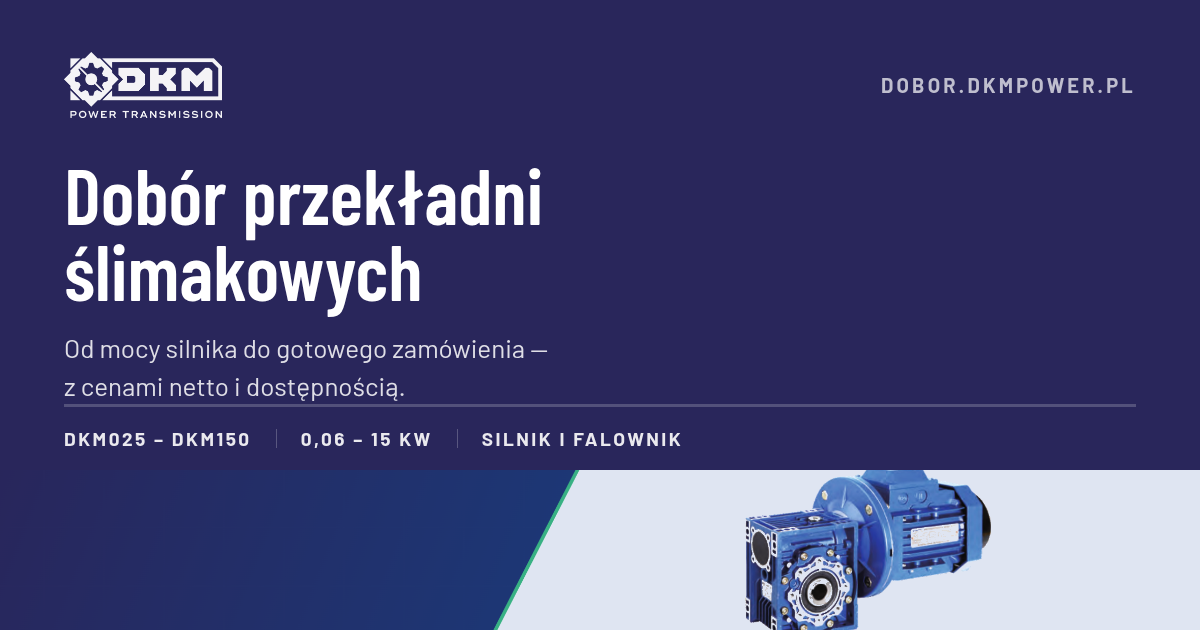
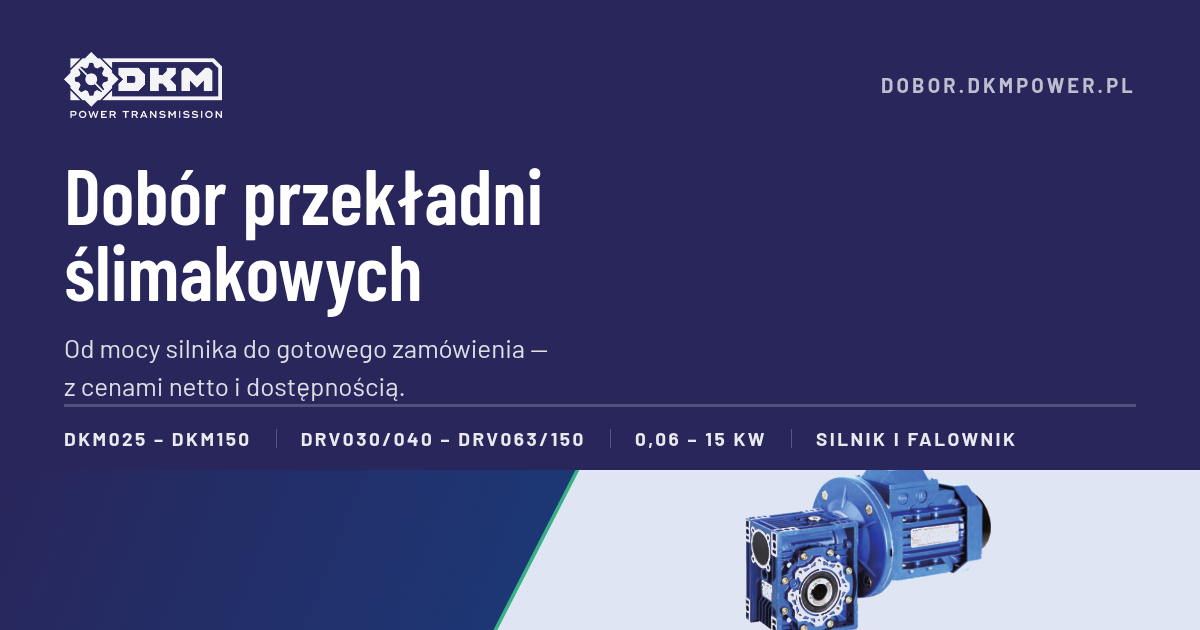
Pasek na obrazku podglądu wymienia też zespoły DRV
Właściciel: „zmień znacznik i dopisz DRV tak, jak to jest zrobione
w DKM025–DKM150". Cztery pola zamiast trzech, w tym samym stylu:

  DKM025 – DKM150 | DRV030/040 – DRV063/150 | 0,06 – 15 kW | silnik i falownik

Zakres DRV to osiem zespołów, od DRV030/040 do DRV063/150.
Obrazek przegenerowany skryptem, mieści się w jednej linii.

To był największy element karty podglądu — większy niż cały tekst —
a mówił o ofercie bez DRV jeszcze wtedy, gdy opisy już ją wymieniały.

198/198 przechodzi.

Claude-Session: https://claude.ai/code/session_012hM3uLCuhrwiTh6q1Lt4sw

Changed region(s): [[0.2467, 0.6635, 0.6475, 0.7238], [0.6783, 0.6635, 0.8633, 0.7238]]

diff --git a/CLAUDE.md b/CLAUDE.md
@@ -220,6 +220,28 @@ Obrazek pokazywany przy linku (`public/obrazek-linku.png`, 1200 × 630 px) skła
 `scripts/obrazek-linku.mjs` — renderuje stronę w przeglądarce i robi zrzut.
 Uruchamia się go ręcznie, tylko gdy zmienia się logo albo hasło.
 
+**Pasek na obrazku wymienia obie rodziny — 21.09.2026.** Właściciel:
+„zmień znacznik i dopisz DRV tak, jak to jest zrobione w DKM025–DKM150".
+Cztery pola zamiast trzech, w tym samym stylu:
+
+```
+DKM025 – DKM150 | DRV030/040 – DRV063/150 | 0,06 – 15 kW | silnik i falownik
+```
+
+Zakres DRV to osiem zespołów, od `DRV030/040` do `DRV063/150`. Pasek jest
+wpisany w `STRONA` w `obrazek-linku.mjs` na sztywno i **nie liczy się z danych**
+— przy dojściu nowej rodziny trzeba go poprawić ręcznie, tak samo jak hasło.
+
+To był najważniejszy kawałek karty: **obrazek jest większy niż cały tekst
+podglądu**, a mówił o ofercie bez DRV jeszcze wtedy, gdy opisy już ją
+wymieniały. Znalazłem to dopiero, składając podgląd z prawdziwych znaczników —
+z samego czytania kodu nie było tego widać.
+
+Po zmianie obrazka wersja cache'u service workera liczy się od nowa (liczona
+z zawartości plików), więc podmiana sama ją unieważnia. **Facebook trzyma
+jednak własną kopię** — nowy obrazek i opis pokażą się dopiero po przepuszczeniu
+adresu przez Sharing Debugger i „Scrape Again".
+
 **Opis przy linku wymienia obie rodziny — poprawione 21.09.2026.** Właściciel:
 „teraz mam przekładnie DKM oraz DRV, czyli łączone". Do tego dnia opis mówił
 tylko o korpusach `DKM025–DKM150`, choć aplikacja od dawna dobierała też zespoły
